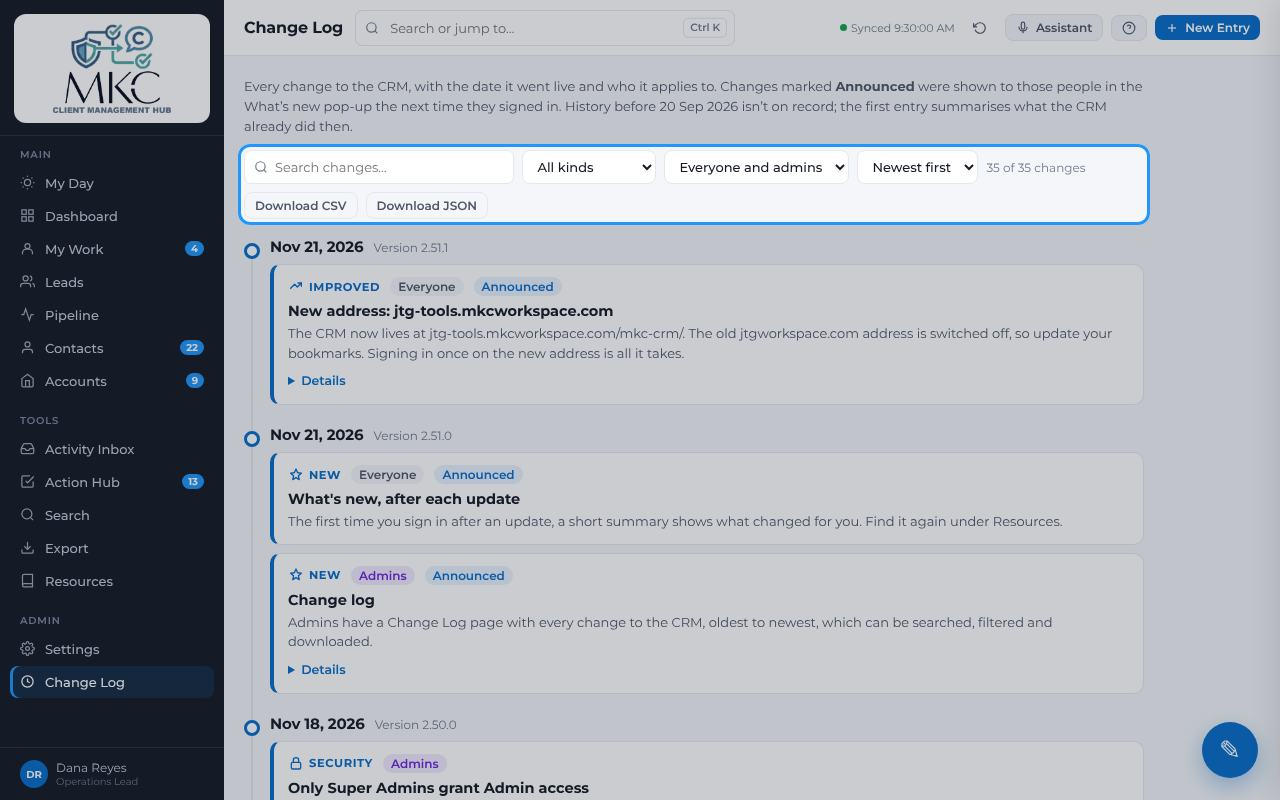
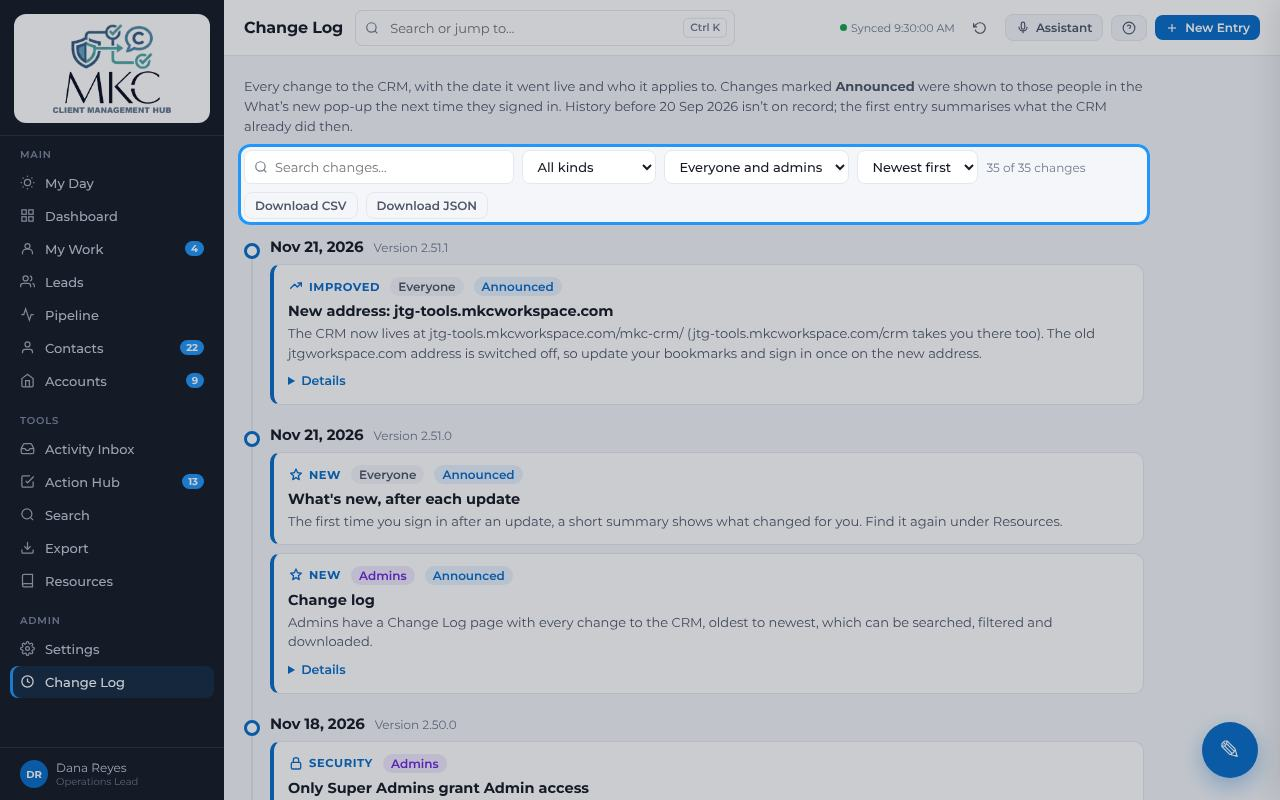
Emails from mkcworkspace.com addresses; /crm short address; Manager forward
- CRM senders: Resend account A now sends for mkcworkspace.com and its
  frontrow / frontrow-manager subdomains instead of jtgworkspace.com.
- Frontrow: client emails come from Frontrow's FROM_EMAIL
  (portal@frontrow.mkcworkspace.com). The Manager keeps FROM_EMAIL for
  team sign-in links (frontrow-manager.mkcworkspace.com) and uses
  CLIENT_FROM_EMAIL for the setup and reset emails it sends to clients.
  lib/mail.js stays identical in both apps; new test for the sender.
- jtg-tools.mkcworkspace.com/crm forwards to the CRM at /mkc-crm/.
- GitHub Pages' copy of the Manager (jtg-tools.mkcworkspace.com/
  frontrow-manager/) forwards to frontrow-manager.mkcworkspace.com, where
  its sign-in and data are.
- Change-log entry 2.51.1 mentions the short address and the email domain.

Claude-Session: https://claude.ai/code/session_01Ei849BDjFccLDDsGZrjqcV

Changed region(s): [[0.2188, 0.4062, 0.875, 0.4688]]

diff --git a/frontrow-manager/lib/mail.js b/frontrow-manager/lib/mail.js
@@ -93,8 +93,15 @@ Android (Chrome): open the link, tap the ⋮ menu, then Install app or Add to Ho
   return { subject, html: layout(org, inner, env), text };
 }
 
+// Client emails come from the client app's address (Frontrow's FROM_EMAIL).
+// The Manager sends team sign-in links from its own FROM_EMAIL, so it sets
+// CLIENT_FROM_EMAIL for the setup and reset emails it sends to clients.
+export function clientFrom(env = process.env) {
+  return env.CLIENT_FROM_EMAIL || env.FROM_EMAIL || '';
+}
+
 export async function sendEmail({ to, subject, html, text, key }, env = process.env, fetchImpl = fetch) {
-  if (!env.RESEND_API_KEY || !env.FROM_EMAIL) return 'Email is not configured (RESEND_API_KEY / FROM_EMAIL).';
+  if (!env.RESEND_API_KEY || !clientFrom(env)) return 'Email is not configured (RESEND_API_KEY / FROM_EMAIL).';
   try {
     const res = await fetchImpl('https://api.resend.com/emails', {
       method: 'POST',
@@ -103,7 +110,7 @@ export async function sendEmail({ to, subject, html, text, key }, env = process.
         'Content-Type': 'application/json',
         ...(key ? { 'Idempotency-Key': key } : {})
       },
-      body: JSON.stringify({ from: env.FROM_EMAIL, to: [to], subject, html, text })
+      body: JSON.stringify({ from: clientFrom(env), to: [to], subject, html, text })
     });
     if (!res.ok) return `Resend ${res.status}: ${(await res.text()).slice(0, 200)}`;
     return null;

diff --git a/frontrow/lib/mail.js b/frontrow/lib/mail.js
@@ -93,8 +93,15 @@ Android (Chrome): open the link, tap the ⋮ menu, then Install app or Add to Ho
   return { subject, html: layout(org, inner, env), text };
 }
 
+// Client emails come from the client app's address (Frontrow's FROM_EMAIL).
+// The Manager sends team sign-in links from its own FROM_EMAIL, so it sets
+// CLIENT_FROM_EMAIL for the setup and reset emails it sends to clients.
+export function clientFrom(env = process.env) {
+  return env.CLIENT_FROM_EMAIL || env.FROM_EMAIL || '';
+}
+
 export async function sendEmail({ to, subject, html, text, key }, env = process.env, fetchImpl = fetch) {
-  if (!env.RESEND_API_KEY || !env.FROM_EMAIL) return 'Email is not configured (RESEND_API_KEY / FROM_EMAIL).';
+  if (!env.RESEND_API_KEY || !clientFrom(env)) return 'Email is not configured (RESEND_API_KEY / FROM_EMAIL).';
   try {
     const res = await fetchImpl('https://api.resend.com/emails', {
       method: 'POST',
@@ -103,7 +110,7 @@ export async function sendEmail({ to, subject, html, text, key }, env = process.
         'Content-Type': 'application/json',
         ...(key ? { 'Idempotency-Key': key } : {})
       },
-      body: JSON.stringify({ from: env.FROM_EMAIL, to: [to], subject, html, text })
+      body: JSON.stringify({ from: clientFrom(env), to: [to], subject, html, text })
     });
     if (!res.ok) return `Resend ${res.status}: ${(await res.text()).slice(0, 200)}`;
     return null;

diff --git a/frontrow-manager/test/mail-from.test.js b/frontrow-manager/test/mail-from.test.js
@@ -1,0 +1,20 @@
+import { test } from 'node:test';
+import assert from 'node:assert/strict';
+import { sendEmail, clientFrom } from '../lib/mail.js';
+
+// Client emails come from the client app's address; team sign-in links keep
+// the Manager's own FROM_EMAIL (lib/emails.js).
+test('client emails use CLIENT_FROM_EMAIL, else FROM_EMAIL', async () => {
+  assert.equal(clientFrom({ FROM_EMAIL: 'M <signin@frontrow-manager.example>' }), 'M <signin@frontrow-manager.example>');
+  const env = { RESEND_API_KEY: 'k', FROM_EMAIL: 'M <signin@frontrow-manager.example>', CLIENT_FROM_EMAIL: 'F <portal@frontrow.example>' };
+  let sent;
+  const err = await sendEmail({ to: 'pat@acme.test', subject: 's', html: 'h', text: 't' }, env,
+    async (_url, opts) => { sent = JSON.parse(opts.body); return { ok: true }; });
+  assert.equal(err, null);
+  assert.equal(sent.from, 'F <portal@frontrow.example>');
+});
+
+test('no sender address means not configured', async () => {
+  const err = await sendEmail({ to: 'pat@acme.test', subject: 's', html: 'h', text: 't' }, { RESEND_API_KEY: 'k' }, async () => ({ ok: true }));
+  assert.match(err, /not configured/);
+});

diff --git a/api/_lib/senders.ts b/api/_lib/senders.ts
@@ -17,7 +17,7 @@
 // and its own RESEND_KEY_<letter> variable.
 
 export const RESEND_ACCOUNTS: Record<string, string[]> = {
-  A: ['jtgworkspace.com', 'befortune5.com', 'buildmystart-up.com'],
+  A: ['mkcworkspace.com', 'frontrow.mkcworkspace.com', 'frontrow-manager.mkcworkspace.com', 'befortune5.com', 'buildmystart-up.com'],
   B: ['mkholdinco.com', 'j-tgroup.com', 'wearepartydesigners.com'],
   C: ['bcm.mambaykanu.com', 'apply1234.com', 'mambaykanu.com'],
   D: ['go-unybase.unywebs.com', 'unywebs.com'],

diff --git a/crm/index.html b/crm/index.html
@@ -1,0 +1,15 @@
+<!doctype html>
+<html lang="en">
+<head>
+  <meta charset="utf-8">
+  <title>MKC CRM</title>
+  <meta name="robots" content="noindex">
+  <!-- Short address for the CRM: jtg-tools.mkcworkspace.com/crm -> /mkc-crm/ -->
+  <meta http-equiv="refresh" content="0; url=../mkc-crm/">
+  <link rel="canonical" href="../mkc-crm/">
+  <script>location.replace('../mkc-crm/' + location.search + location.hash);</script>
+</head>
+<body>
+  <p><a href="../mkc-crm/">Open MKC CRM</a></p>
+</body>
+</html>

diff --git a/frontrow-manager/js/home.js b/frontrow-manager/js/home.js
@@ -1,0 +1,9 @@
+/* GitHub Pages also serves this folder, at jtg-tools.mkcworkspace.com/frontrow-manager/,
+ * but the Manager's sign-in and data live on Vercel. Send anyone who lands
+ * there to the real address. */
+(function () {
+  var h = location.hostname;
+  if (/^jtg-tools\./.test(h) || /\.github\.io$/.test(h)) {
+    location.replace('https://frontrow-manager.mkcworkspace.com/' + location.hash);
+  }
+})();

diff --git a/frontrow-manager/index.html b/frontrow-manager/index.html
@@ -12,6 +12,7 @@
   <link rel="preload" href="assets/fonts/figtree-latin-var.woff2" as="font" type="font/woff2" crossorigin>
   <link rel="preload" href="assets/fonts/bricolage-grotesque-latin-var.woff2" as="font" type="font/woff2" crossorigin>
   <link rel="stylesheet" href="css/style.css">
+  <script src="js/home.js"></script>
 </head>
 <body>
   <div id="app"><div class="loading">Loading…</div></div>

diff --git a/frontrow-manager/SETUP.md b/frontrow-manager/SETUP.md
@@ -74,7 +74,9 @@ Enforced on the server (`lib/access.js`); the browser only hides buttons.
 | --- | --- |
 | `SUPABASE_URL` | `https://symbmscaajjmgywbifhv.supabase.co` |
 | `SUPABASE_SERVICE_ROLE_KEY` | service role key (Supabase → Settings → API) |
-| `RESEND_API_KEY`, `FROM_EMAIL` | same as MKC Admin, e.g. `Frontrow <portal@jtgworkspace.com>` |
+| `RESEND_API_KEY` | key of the Resend account where `frontrow.mkcworkspace.com` and `frontrow-manager.mkcworkspace.com` are verified (account A) |
+| `FROM_EMAIL` | team sign-in links, e.g. `Frontrow Manager <signin@frontrow-manager.mkcworkspace.com>` |
+| `CLIENT_FROM_EMAIL` | setup and reset emails to clients, same as Frontrow's `FROM_EMAIL`, e.g. `Frontrow <portal@frontrow.mkcworkspace.com>` |
 | `SITE_URL` | this app's URL, e.g. `https://frontrow-manager.mkcworkspace.com` |
 | `FRONTROW_URL` | the client app's URL, e.g. `https://frontrow.mkcworkspace.com` |
 | `PORTAL_ADMIN_EMAILS` | comma-separated emails that are always super admin |

diff --git a/frontrow/SETUP.md b/frontrow/SETUP.md
@@ -45,7 +45,8 @@ mistyped domain can never receive account links.
 | Name | Value |
 | --- | --- |
 | `SUPABASE_URL`, `SUPABASE_SERVICE_ROLE_KEY` | same as Frontrow Manager |
-| `RESEND_API_KEY`, `FROM_EMAIL` | same as Frontrow Manager |
+| `RESEND_API_KEY` | same as Frontrow Manager |
+| `FROM_EMAIL` | client emails, e.g. `Frontrow <portal@frontrow.mkcworkspace.com>` (verify `frontrow.mkcworkspace.com` in that Resend account) |
 | `FRONTROW_URL` | this app's URL, e.g. `https://frontrow.mkcworkspace.com` (links in emails) |
 | `CLICKUP_API_TOKEN` | same new token as Frontrow Manager (notes and request contacts) |
 | `ALLOWED_ORIGINS` | optional; only if a form is posted from another origin |
